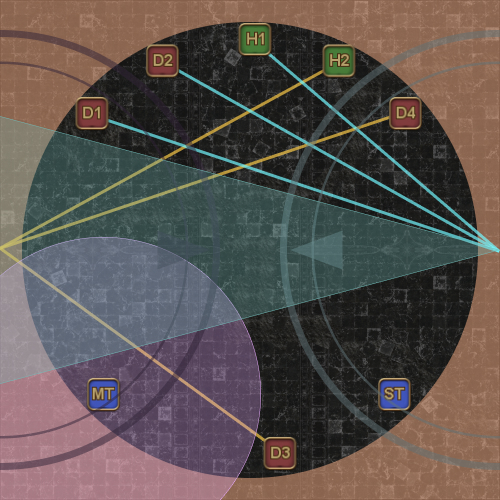
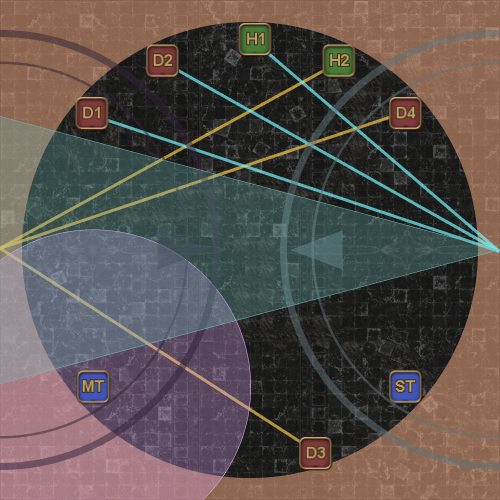
Update WB2 diagrams + specify tank positions

diff --git a/ultimates/dsr/06_double_dragons.en.md b/ultimates/dsr/06_double_dragons.en.md
@@ -748,8 +748,10 @@ maintain uptime on a dragon during the mechanic.
   <tr>
     <td width="50%">
       <ul>
-        <li><b>MT:</b> SW if you get the single-target tankbuster (by Nidhogg).</li>
-        <li><b>ST:</b> SE if you get the single-target tankbuster (by Hraesvelgr).</li>
+        <li><b>MT:</b> SW if Nidhogg's mouth isn't glowing (just inside the
+        target circle by the edge).</li>
+        <li><b>ST:</b> SE if Hraesvelgr's mouth isn't glowing (just inside the
+        target circle by the edge).</li>
         <li><b>D3:</b> Go south, and <b>move towards a dragon whose mouth is
         glowing</b>.</li>
         <li><b>All other players:</b> Spread out along the <b>north</b> edge.
